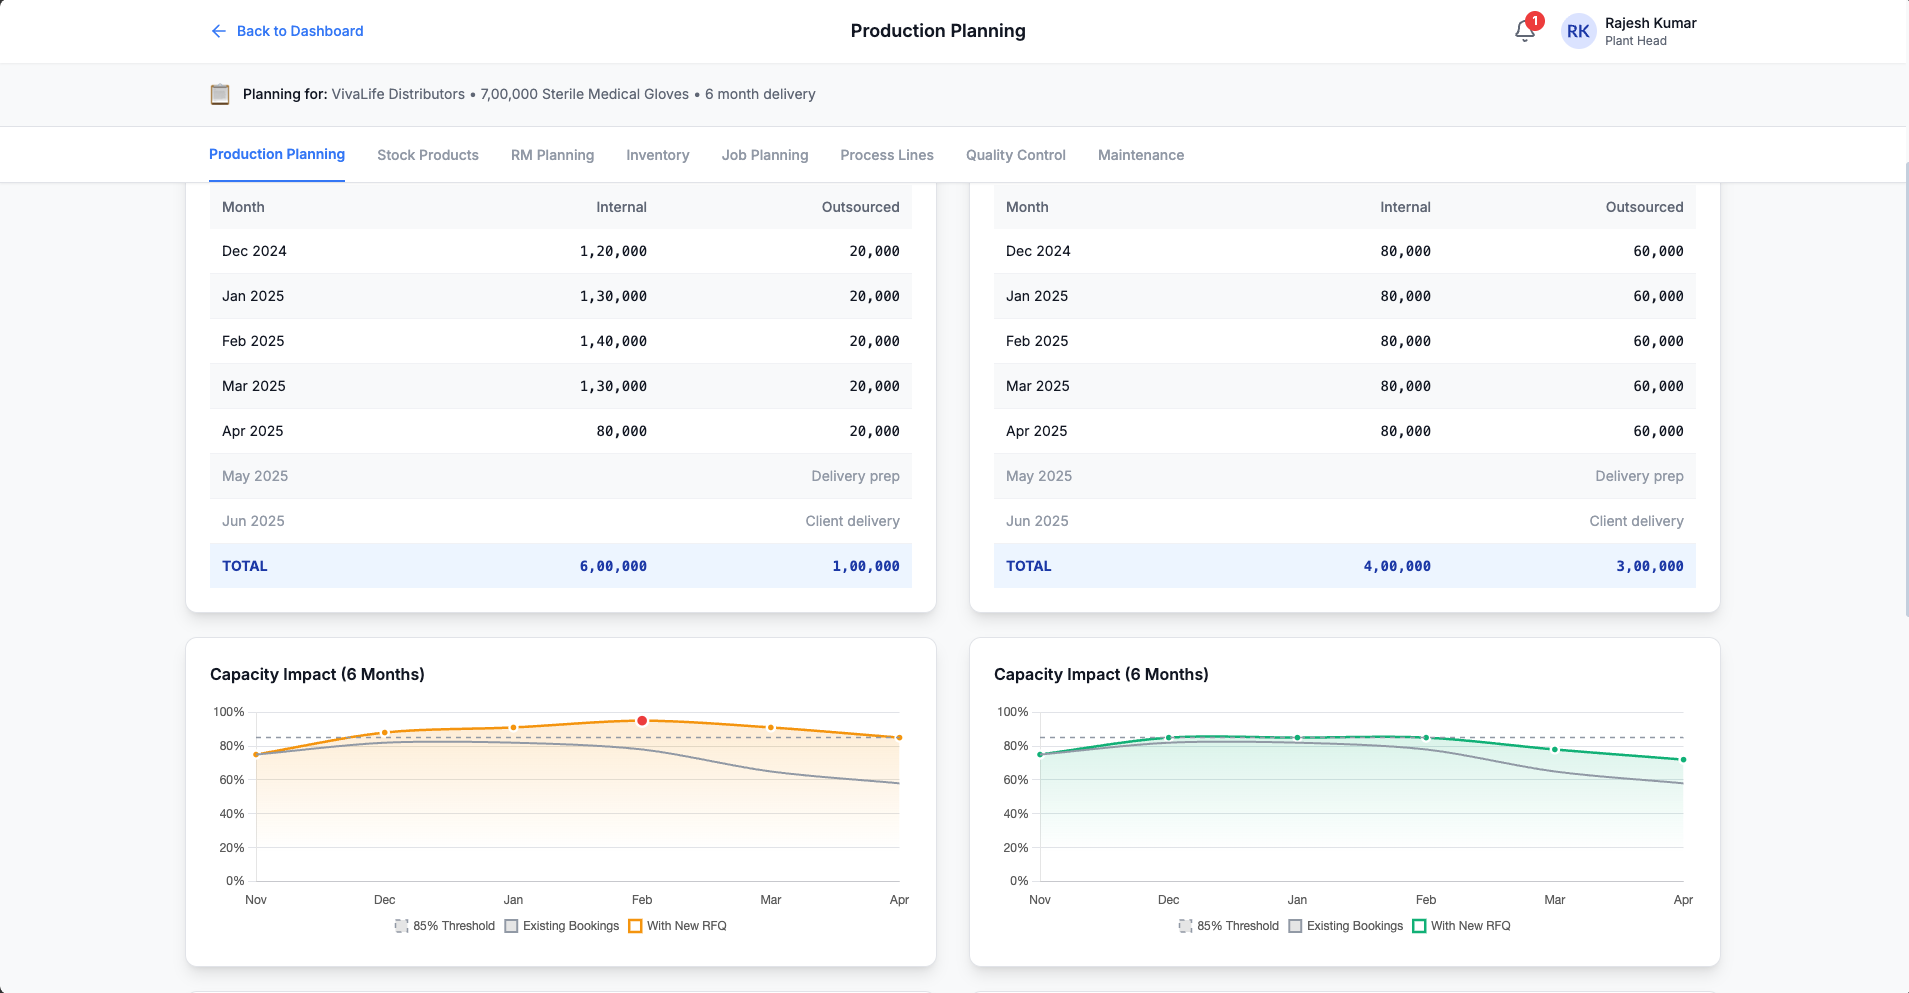
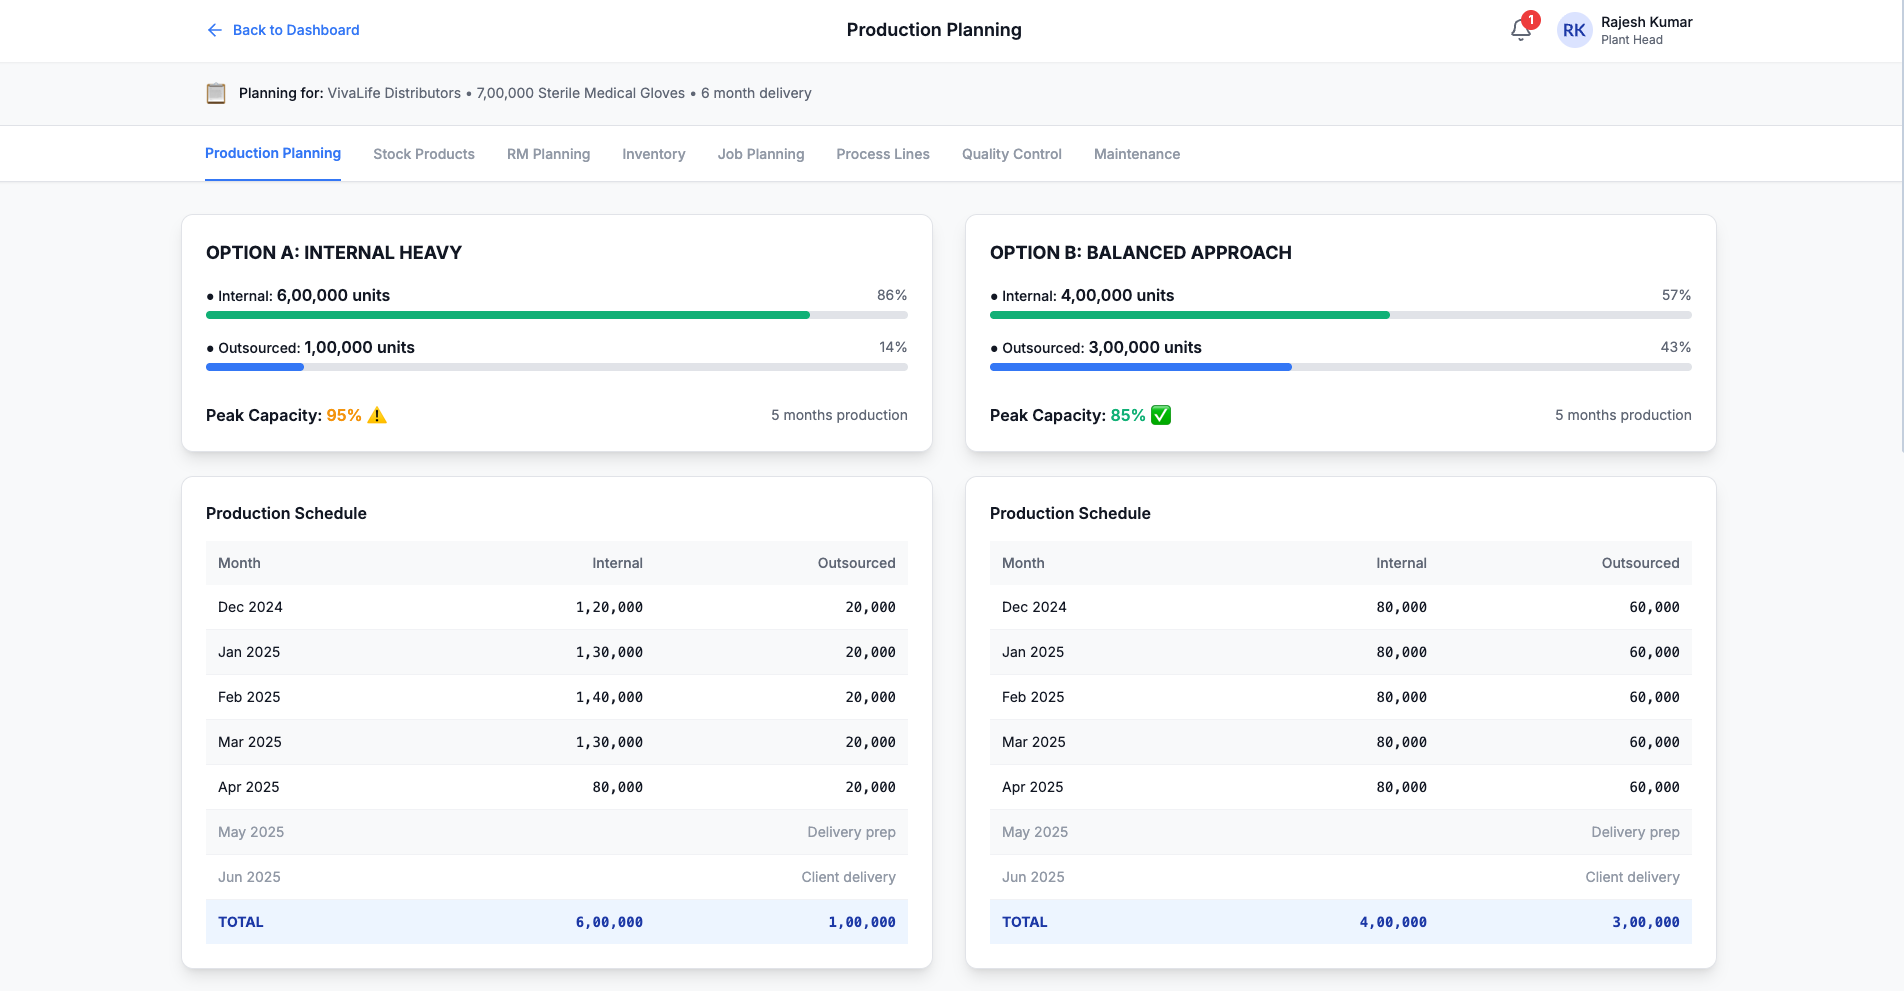
Added images for pages

diff --git a/src/pages/industries.tsx b/src/pages/industries.tsx
@@ -23,7 +23,9 @@ const IndustriesPage = () => {
             caseStudy: {
                 title: "See how Bird Machines reduced finance workload by 95%",
                 link: "/case-studies/bird-machines"
-            }
+            },
+            imagePlaceholder: false,
+            imageSrc: "/sheet-metal.png"
         },
         {
             title: "Packaging & Printing",
@@ -42,7 +44,9 @@ const IndustriesPage = () => {
             caseStudy: {
                 title: "See how Packaging Garage cut procurement cycles from 10 days to 2 hours",
                 link: "/case-studies/packaging-garage"
-            }
+            },
+            imagePlaceholder: false,
+            imageSrc: "/packaging.png"
         },
         {
             title: "Electronics & EMS",
@@ -61,7 +65,9 @@ const IndustriesPage = () => {
             caseStudy: {
                 title: "See how Dolphin Device achieved a 22% revenue uplift",
                 link: "/case-studies/dolphin-device"
-            }
+            },
+            imagePlaceholder: false,
+            imageSrc: "/electronics.png"
         },
         {
             title: "Pharma & Chemicals",
@@ -80,7 +86,9 @@ const IndustriesPage = () => {
             caseStudy: {
                 title: "See how a top Condom Manufacturer increased margins by 3 points",
                 link: "/case-studies/pharma-chem"
-            }
+            },
+            imagePlaceholder: false,
+            imageSrc: "/pharma.png"
         },
         {
             title: "Heavy Machinery (OEM)",
@@ -95,7 +103,9 @@ const IndustriesPage = () => {
             caseStudy: {
                 title: "Result: Real-time visibility on order completion dates",
                 link: "/case-studies/heavy-machinery"
-            }
+            },
+            imagePlaceholder: false,
+            imageSrc: "/heavy-machinery.png"
         }
     ];
 

diff --git a/src/components/industries/IndustryCard.tsx b/src/components/industries/IndustryCard.tsx
@@ -2,6 +2,7 @@ import React from 'react';
 import Card from '../ui/Card';
 import { ArrowRightIcon } from 'lucide-react';
 import Link from 'next/link';
+import Image from 'next/image';
 
 interface IndustryCardProps {
     title: string;
@@ -16,6 +17,7 @@ interface IndustryCardProps {
         link: string;
     };
     imagePlaceholder?: boolean;
+    imageSrc?: string;
 }
 
 const IndustryCard = ({
@@ -24,6 +26,7 @@ const IndustryCard = ({
     friction,
     solutions,
     imagePlaceholder = true,
+    imageSrc,
 }: IndustryCardProps) => {
     return (
         <Card variant="dark" className="h-full flex flex-col overflow-hidden relative group">
@@ -43,10 +46,20 @@ const IndustryCard = ({
                 </div>
 
                 {/* Image Side (Placeholder) */}
-                {imagePlaceholder && (
+                {imagePlaceholder ? (
                     <div className="w-full md:w-1/3 min-h-[200px] md:min-h-0 bg-white/5 rounded-2xl border border-white/10 flex items-center justify-center relative overflow-hidden">
                         <div className="absolute inset-0 bg-gradient-to-br from-[#bef264]/10 to-transparent"></div>
                         <span className="text-white/20 font-medium">Image Placeholder</span>
+                    </div>
+                ) : (
+                    <div className="w-full md:w-1/3 min-h-[200px] md:min-h-0 bg-white/5 rounded-2xl border border-white/10 flex items-center justify-center relative overflow-hidden">
+                        <div className="absolute inset-0 bg-gradient-to-br from-[#bef264]/10 to-transparent"></div>
+                        <Image
+                            src={imageSrc || ''}
+                            alt={title}
+                            fill
+                            className="object-cover"
+                        />
                     </div>
                 )}
             </div>
